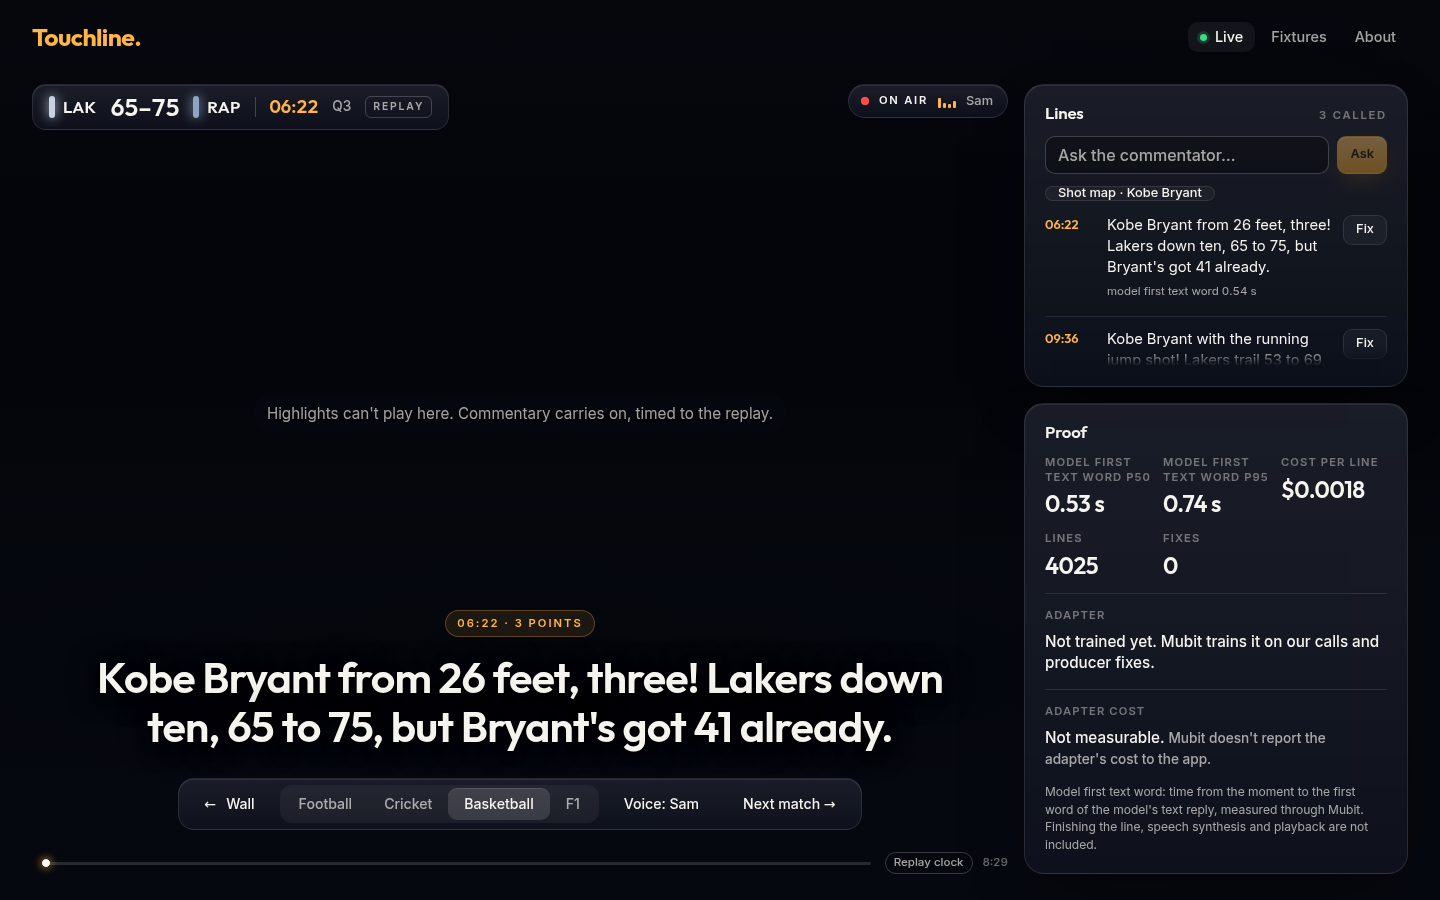
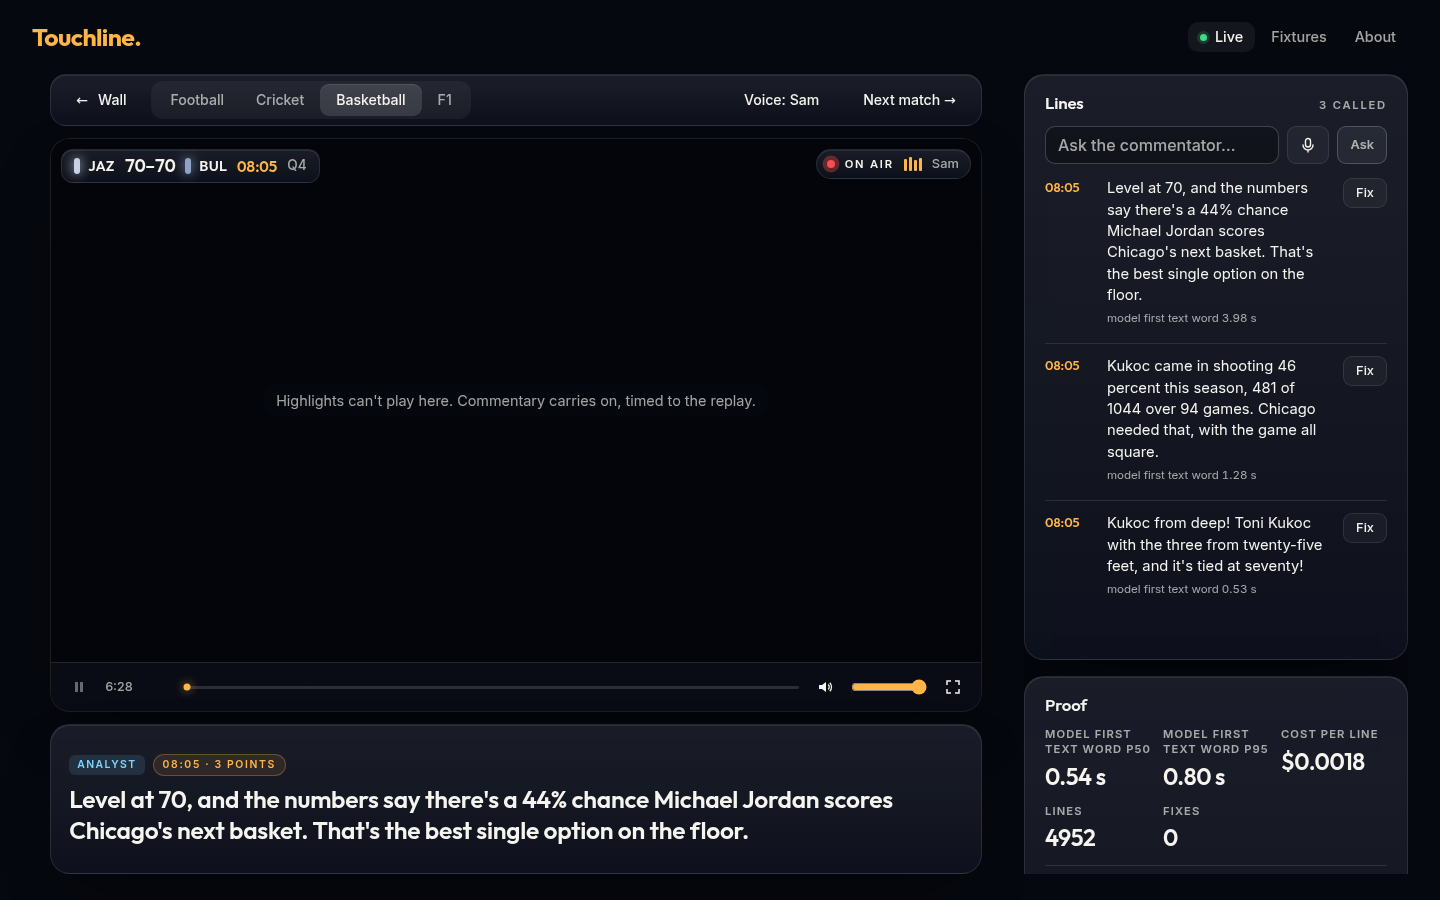
docs: hero on the #132 layout with the analyst's stat lines; analyst lines live (#142) (#143)
Req: A-9.1@1

diff --git a/README.md b/README.md
@@ -14,10 +14,10 @@
 
 [**Try it live**](https://night-shift-5zvig7nbvq-ew.a.run.app) · [**For judges**](#for-judges) · [**Real numbers**](#real-numbers) · [**Architecture**](docs/ARCHITECTURE.md) · [**Known limitations**](#known-limitations) · [**Run it**](#run-it) · [**Demo script**](docs/demo.md)
 
-<img src="docs/img/live.png" alt="The live page (old layout) calling Kobe Bryant's 81-point game. Top left, the score bar reads LAK 65-75 RAP, 06:22, Q3, REPLAY, and an ON AIR pill names the voice, Sam. The large subtitle reads: Kobe Bryant from 26 feet, three! Lakers down ten, 65 to 75, but Bryant's got 41 already. Under it, a dock with Wall, the four sports, Voice and Next match. On the right, the Lines card with an Ask box, a Shot map chip for Kobe Bryant and each line with a Fix button and its model first-text-word time, and the Proof card with first text word p50 0.53 s and p95 0.74 s, $0.0018 a line, the lines count, 0 fixes, and the adapter as not trained yet (captured before 13:04 UTC)." width="100%">
+<img src="docs/img/live.png" alt="The live page calling Michael Jordan's last game, the 1998 NBA Finals Game 6. Above the video card, the sport bar with Wall, the four sports, Voice: Sam and Next match. On the video card, the score bug JAZ 70-70 BUL, 08:05, Q4, an ON AIR pill naming Sam, and playback controls along the bottom. Under the card, the docked caption, marked ANALYST and 08:05 3 POINTS: Level at 70, and the numbers say there's a 44% chance Michael Jordan scores Chicago's next basket. That's the best single option on the floor. On the right, the Lines card, newest first: the lead's call, Kukoc from deep! Toni Kukoc with the three from twenty-five feet, and it's tied at seventy!; then the analyst's stat line, Kukoc came in shooting 46 percent this season, 481 of 1044 over 94 games; then the prediction line. Each line has a Fix button and its model first-text-word time. Below, the Proof card." width="100%">
 
-<sub>The live site on 24 October 2026, captured in headless Chrome: Kobe Bryant's 81 against Toronto
-being called. YouTube won't play in a headless browser, so the video area is empty and the page says
+<sub>The live site on 24 October 2026 at 13:20 UTC, captured in headless Chrome: Jordan's last shot
+being called by the lead, with the analyst's stat lines in the gap after Kukoc's three. YouTube won't play in a headless browser, so the video area is empty and the page says
 so; the lines, voice timing and numbers are live.</sub>
 
 </div>
@@ -48,7 +48,7 @@ Built at Night Shift: Mubit Hackathon, London, 23 to 25 October 2026. Track: Own
 | Feature | Status | Proof in the code |
 |---|---|---|
 | [The six matches](#the-six-matches) | Live | [`GET /matches`](https://night-shift-5zvig7nbvq-ew.a.run.app/matches), [`agent/feed.py`](agent/feed.py) |
-| [Two commentators: lead and analyst](#two-commentators-lead-and-analyst) | Live; analyst lines saying the stat itself in progress (#142) | [`core/insight.py`](core/insight.py), [`core/replay.py`](core/replay.py) |
+| [Two commentators: lead and analyst](#two-commentators-lead-and-analyst) | Live (#130, #142) | [`core/insight.py`](core/insight.py), [`core/replay.py`](core/replay.py) |
 | [Ask, by typing](#ask-by-typing-or-by-voice) | Live | [`POST /replays/{id}/ask`](core/app.py), [`agent/ask.md`](agent/ask.md) |
 | [Ask, by voice](#ask-by-typing-or-by-voice) | Live (#145) | [`web/src/voice.ts`](web/src/voice.ts), [`web/src/components/MicButton.tsx`](web/src/components/MicButton.tsx), [`web/src/voice.test.ts`](web/src/voice.test.ts) |
 | [Follow a player: shot map](#follow-a-player) | Live | [`GET /replays/{id}/players/{name}/shots`](core/app.py), [`web/src/components/ShotMap.tsx`](web/src/components/ShotMap.tsx) |
